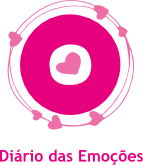
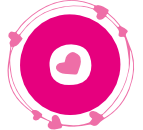
Meal Diary started

diff --git a/frontend/src/view/pages/MealDiaryPage.js b/frontend/src/view/pages/MealDiaryPage.js
@@ -1,0 +1,35 @@
+import React from 'react';
+import { Box, IconButton, Typography } from '@mui/material';
+import DiaryLogo from '../../assets/images/refeicoes_icon.png'
+import ArrowBackIosIcon from '@mui/icons-material/ArrowBackIos';
+import { Link } from 'react-router-dom';
+import MealButton from '../widgets/MealButton';
+
+function MealDiaryPage() {
+  return (
+        <div>
+        <Box sx={{mt:'10px', mb:'10px' }}>
+        <IconButton component={Link} to="/" aria-label="back" size="large">
+            <ArrowBackIosIcon htmlColor= "#349db7" fontSize="inherit" />
+        </IconButton>
+            <div style={{ paddingBottom: 10, display: 'flex', justifyContent : 'center', alignItems: 'center'}}>
+                <img alt="logo" style={{ alignSelf: 'center' }} src={DiaryLogo} width='30%' />
+            </div>
+            <Typography gutterBottom sx={{ pb:1, textAlign: 'center', fontSize: 17, fontWeight: 500 }} variant='body1' color={"primary"}>
+                Diário das Refeições
+            </Typography>
+          <Box sx={{p:2}}>
+            <MealButton meal= "Pequeno Almoço" href="/pqnoalmoco"/>
+            <MealButton meal= "Lanche da Manhã" href="/lanchemanha"/>
+            <MealButton meal= "Almoço" href="/almoco"/>
+            <MealButton meal= "Lanche da Tarde" href="/lanchetarde" />
+            <MealButton meal= "Jantar" href="/jantar" />
+            <MealButton meal= "Ceia" href="/ceia"/>
+            <MealButton meal= "Outra Refeição" href="/outraref"/>
+          </Box>
+        </Box>
+        </div>
+  );
+}
+
+export default MealDiaryPage;

diff --git a/frontend/src/view/pages/EmotionDiaryPage.js b/frontend/src/view/pages/EmotionDiaryPage.js
@@ -1,5 +1,5 @@
 import React from 'react';
-import { Box, IconButton } from '@mui/material';
+import { Box, IconButton, Typography } from '@mui/material';
 import DiaryLogo from '../../assets/images/diario_emocoes.png'
 import EmotionsButton from '../widgets/EmotionsButton';
 import ExercisesButton from '../widgets/ExercisesButton';
@@ -14,9 +14,12 @@ function EmotionDiaryPage() {
         <IconButton component={Link} to="/" aria-label="back" size="large">
             <ArrowBackIosIcon color= "secondary" fontSize="inherit" />
         </IconButton>
-            <div style={{ padding: 20, display: 'flex', justifyContent : 'center', alignItems: 'center'}}>
-                <img alt="logo" style={{ alignSelf: 'center' }} src={DiaryLogo} height='70%'/>
+            <div style={{ paddingBottom: 10, display: 'flex', justifyContent : 'center', alignItems: 'center'}}>
+                <img alt="logo" style={{ alignSelf: 'center' }} src={DiaryLogo} width='30%'/>
             </div>
+            <Typography gutterBottom sx={{ pb:1, textAlign: 'center', fontSize: 17, fontWeight: 500, color: "#e7007f" }} variant='body1'>
+                Diário das Emoções
+            </Typography>
           <Box sx={{p:2}}>
             <EmotionsButton/>
             <ExercisesButton/>

diff --git a/frontend/src/view/widgets/DiaryCard.js b/frontend/src/view/widgets/DiaryCard.js
@@ -12,9 +12,9 @@ const colorCards = ['#349cb6', '#d8accc']
 export default function DiaryCard(props) {
   return (
     <Box sx ={{p:2}}>
-        <Link href={props.name == 'Emoções' ? "/emotiondiary" : "#"}>
+        <Link href={props.name === 'Emoções' ? "/emotiondiary" : "/mealdiary"}>
             <Grid container sx={{ p: 0.5 }} direction="row" justifyContent="center">
-                <img src={props.name == 'Emoções' ? Emocoes : Refeicoes} height={120}/>
+                <img alt= {props.name} src={props.name === 'Emoções' ? Emocoes : Refeicoes} height={120}/>
             </Grid>
         </Link>
         <Typography sx={{ pt:1, textAlign: 'center', fontSize: 13, fontWeight: 'bold' }} variant='body1' color={colorCards[props.index]}>

diff --git a/frontend/src/App.js b/frontend/src/App.js
@@ -17,6 +17,7 @@ import '@fontsource/roboto/500.css';
 import '@fontsource/roboto/700.css';
 import EmotionsPage from './view/pages/EmotionsPage.js';
 import ExercisesPage from './view/pages/ExercisesPage.js';
+import MealDiaryPage from './view/pages/MealDiaryPage.js';
 
 
 const theme = myTheme;
@@ -38,6 +39,7 @@ function App() {
         <Route path='/emotions' element={< EmotionsPage/>} />
         <Route path='/exercises' element={< ExercisesPage/>} />
         
+        <Route path='/mealdiary' element= {<MealDiaryPage/>} />
       </Routes>
       </StyledEngineProvider>
     </ThemeProvider>

diff --git a/frontend/src/view/widgets/MealButton.js b/frontend/src/view/widgets/MealButton.js
@@ -1,0 +1,18 @@
+import * as React from 'react';
+import { Box, Link } from '@mui/material'
+import Typography from '@mui/material/Typography';
+
+
+export default function MealButton(props) {
+  return (
+    <Box sx ={{ p:0.5 }}>
+        <Link href={props.href} underline='none'>
+            <Box sx ={{ p:1, bgcolor: '#349db7' }}>
+                <Typography gutterBottom sx={{ pt:1, textAlign: 'center', fontSize: 18, fontWeight: 500 }} variant='body1' color={"white"}>
+                    {props.meal}
+                </Typography>
+            </Box>
+        </Link>
+    </Box>
+  );
+}

diff --git a/frontend/src/view/widgets/ModuleCard.js b/frontend/src/view/widgets/ModuleCard.js
@@ -20,7 +20,7 @@ export default function ModuleCard(props) {
     <Card sx={{ height:120, minWidth: 150, bgcolor: colorCards[props.index][0] }}>
       <CardContent>
         <Typography sx={{ fontSize: 11 }} color={colorCards[props.index][1]} >
-          Módulo {props.index}
+          Módulo {props.index+1}
         </Typography>
         <hr color={colorCards[props.index][1]}/>
         <Typography sx={{ fontSize: 11, fontWeight: 'bold' }} color={colorCards[props.index][1]} variant="h5" component="div">
